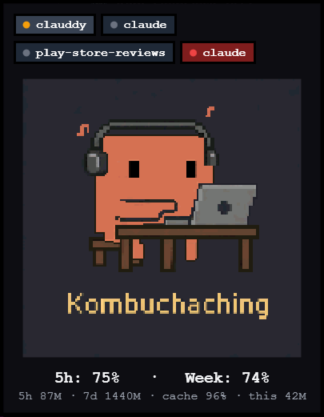
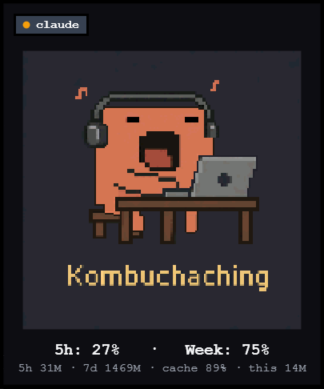
fix: 5h metric tracks bucket resets, not a rolling window
The old rolling-5h sum kept old tokens visible long after Anthropic had
silently reset the bucket — Clauddy showed 75% while /usage was at 27%.

The new logic walks assistant messages chronologically and detects bucket
boundaries: a new bucket starts after a ≥5h gap in activity OR when the
span from the bucket's first message exceeds 5h (matching Anthropic's
"reset at bucket_start + 5h" behavior). If the latest bucket has aged
past now, the metric reads 0 — same as /usage shows post-reset.

Renamed UsageStats.Last5HoursTokens → CurrentBucketTokens (and the cache
field accordingly) since the bucket can span >5h of continuous activity
or be empty when idle past expiry — the field is no longer "the last 5h".

The 7d metric is unchanged (still a rolling sum); we'll only revisit it
if calibration drift becomes a real-world annoyance there too.

76 tests passing (was 73; +3 covering bucket-span reset, no-gap continuous
activity, and post-expiry bucket).

diff --git a/src/Clauddy.Tests/UsageStatsServiceTests.cs b/src/Clauddy.Tests/UsageStatsServiceTests.cs
@@ -30,31 +30,73 @@ public class UsageStatsServiceTests : IDisposable
     {
         var svc = new UsageStatsService(Path.Combine(_dir, "nope"));
         var s = svc.Compute(DateTimeOffset.UtcNow);
-        s.Last5HoursTokens.Should().Be(0);
+        s.CurrentBucketTokens.Should().Be(0);
         s.Last7DaysTokens.Should().Be(0);
-        s.Last5HoursCacheRate.Should().Be(0);
+        s.CurrentBucketCacheRate.Should().Be(0);
     }
 
     [Fact]
-    public void Sums_tokens_inside_5_hour_window()
+    public void Sums_tokens_in_active_bucket()
     {
+        // Two messages 1h apart, both within the past 5h — single active bucket.
         var now = DateTimeOffset.Parse("2026-04-29T12:00:00Z");
         WriteTranscript("a.jsonl",
-            Line("2026-04-29T11:00:00Z", input: 1000, output: 500),     // in 5h
-            Line("2026-04-29T08:00:00Z", input: 100, output: 50));      // outside 5h (4h ago is in, 4h+1m is out — wait 8:00 is 4h before 12:00, in window; let me adjust)
+            Line("2026-04-29T11:00:00Z", input: 1000, output: 500),
+            Line("2026-04-29T10:00:00Z", input: 100, output: 50));
         var s = new UsageStatsService(_dir).Compute(now);
-        s.Last5HoursTokens.Should().Be(1000 + 500 + 100 + 50);  // both within 5h
+        s.CurrentBucketTokens.Should().Be(1650);
     }
 
     [Fact]
-    public void Excludes_tokens_older_than_5_hours()
+    public void Bucket_resets_after_long_idle_gap()
     {
+        // 6h gap between consecutive messages → only the more recent one is in the
+        // current bucket. The older one belonged to a previous (now-expired) bucket.
         var now = DateTimeOffset.Parse("2026-04-29T12:00:00Z");
         WriteTranscript("a.jsonl",
-            Line("2026-04-29T11:00:00Z", input: 1000, output: 500),    // 1h ago — in
-            Line("2026-04-29T06:00:00Z", input: 9999, output: 9999));  // 6h ago — out
+            Line("2026-04-29T11:00:00Z", input: 100, output: 200),     // current bucket
+            Line("2026-04-29T05:00:00Z", input: 9999, output: 9999));  // previous bucket
         var s = new UsageStatsService(_dir).Compute(now);
-        s.Last5HoursTokens.Should().Be(1500);
+        s.CurrentBucketTokens.Should().Be(300);
+    }
+
+    [Fact]
+    public void Bucket_includes_messages_older_than_5h_when_activity_is_continuous()
+    {
+        // No gaps >5h between consecutive messages, total span ≤5h: single bucket.
+        var now = DateTimeOffset.Parse("2026-04-29T12:00:00Z");
+        WriteTranscript("a.jsonl",
+            Line("2026-04-29T07:30:00Z", input: 100, output: 100),  // 4.5h ago → bucket start
+            Line("2026-04-29T09:00:00Z", input: 100, output: 100),  // 3h ago
+            Line("2026-04-29T11:30:00Z", input: 100, output: 100)); // 30m ago
+        var s = new UsageStatsService(_dir).Compute(now);
+        s.CurrentBucketTokens.Should().Be(600);
+    }
+
+    [Fact]
+    public void Bucket_resets_when_continuous_activity_spans_more_than_5h()
+    {
+        // Anthropic resets at bucket_start + 5h regardless of activity. So a continuous
+        // 6h run should produce two buckets — only the later one counts.
+        var now = DateTimeOffset.Parse("2026-04-29T12:00:00Z");
+        WriteTranscript("a.jsonl",
+            Line("2026-04-29T06:00:00Z", input: 100, output: 100),  // bucket A start
+            Line("2026-04-29T08:00:00Z", input: 100, output: 100),  // bucket A
+            Line("2026-04-29T11:30:00Z", input: 200, output: 300)); // span >5h → bucket B start
+        var s = new UsageStatsService(_dir).Compute(now);
+        s.CurrentBucketTokens.Should().Be(500);
+    }
+
+    [Fact]
+    public void Bucket_is_empty_when_now_is_past_bucket_expiry()
+    {
+        // Last message is 6h ago; the bucket that contained it expired at bucket_start+5h.
+        // Anthropic's /usage would show 0% in this state; match it.
+        var now = DateTimeOffset.Parse("2026-04-29T12:00:00Z");
+        WriteTranscript("a.jsonl",
+            Line("2026-04-29T06:00:00Z", input: 9999, output: 9999));
+        var s = new UsageStatsService(_dir).Compute(now);
+        s.CurrentBucketTokens.Should().Be(0);
     }
 
     [Fact]
@@ -69,32 +111,31 @@ public class UsageStatsServiceTests : IDisposable
     }
 
     [Fact]
-    public void Includes_cache_tokens_in_total()
+    public void Includes_cache_tokens_in_bucket_total()
     {
         var now = DateTimeOffset.Parse("2026-04-29T12:00:00Z");
         WriteTranscript("a.jsonl",
             Line("2026-04-29T11:00:00Z", input: 100, output: 200, cacheRead: 5000, cacheCreate: 50));
         var s = new UsageStatsService(_dir).Compute(now);
-        s.Last5HoursTokens.Should().Be(100 + 200 + 5000 + 50);
+        s.CurrentBucketTokens.Should().Be(100 + 200 + 5000 + 50);
     }
 
     [Fact]
-    public void Computes_cache_hit_rate_for_5h_window()
+    public void Computes_cache_hit_rate_for_current_bucket()
     {
         var now = DateTimeOffset.Parse("2026-04-29T12:00:00Z");
-        // input+cache_create+cache_read = total INPUT side; cache_read / that = hit rate
         WriteTranscript("a.jsonl",
             Line("2026-04-29T11:00:00Z", input: 100, output: 999, cacheRead: 800, cacheCreate: 100));
         // input side = 100 + 100 + 800 = 1000 ; hit = 800/1000 = 0.8
         var s = new UsageStatsService(_dir).Compute(now);
-        s.Last5HoursCacheRate.Should().BeApproximately(0.8, 0.001);
+        s.CurrentBucketCacheRate.Should().BeApproximately(0.8, 0.001);
     }
 
     [Fact]
     public void Cache_rate_is_zero_when_no_input()
     {
         var s = new UsageStatsService(_dir).Compute(DateTimeOffset.UtcNow);
-        s.Last5HoursCacheRate.Should().Be(0);
+        s.CurrentBucketCacheRate.Should().Be(0);
     }
 
     [Fact]
@@ -106,7 +147,7 @@ public class UsageStatsServiceTests : IDisposable
         File.WriteAllLines(Path.Combine(p1, "a.jsonl"), new[] { Line("2026-04-29T11:00:00Z", 100, 100) });
         File.WriteAllLines(Path.Combine(p2, "b.jsonl"), new[] { Line("2026-04-29T11:00:00Z", 200, 200) });
         var s = new UsageStatsService(_dir).Compute(now);
-        s.Last5HoursTokens.Should().Be(600);
+        s.CurrentBucketTokens.Should().Be(600);
     }
 
     [Fact]
@@ -117,7 +158,7 @@ public class UsageStatsServiceTests : IDisposable
             """{"type":"user","timestamp":"2026-04-29T11:00:00Z","message":{"role":"user","content":"hi"}}""",
             Line("2026-04-29T11:30:00Z", 100, 200));
         var s = new UsageStatsService(_dir).Compute(now);
-        s.Last5HoursTokens.Should().Be(300);
+        s.CurrentBucketTokens.Should().Be(300);
     }
 
     [Fact]
@@ -130,6 +171,6 @@ public class UsageStatsServiceTests : IDisposable
             "{\"timestamp\":\"bad-date\"}",
             Line("2026-04-29T11:00:00Z", 100, 100));
         var s = new UsageStatsService(_dir).Compute(now);
-        s.Last5HoursTokens.Should().Be(200);
+        s.CurrentBucketTokens.Should().Be(200);
     }
 }

diff --git a/src/Clauddy/Services/UsageStatsService.cs b/src/Clauddy/Services/UsageStatsService.cs
@@ -4,17 +4,24 @@ using System.Text.Json;
 namespace Clauddy.Services;
 
 public record UsageStats(
-    long Last5HoursTokens,
+    long CurrentBucketTokens,
     long Last7DaysTokens,
-    double Last5HoursCacheRate);
+    double CurrentBucketCacheRate);
 
 /// <summary>
 /// Computes /usage-style metrics by walking all *.jsonl transcripts under a root.
 /// Pure side-effect-free read of the local filesystem; safe to call on a timer.
+///
+/// The 5-hour metric is a "session bucket" not a rolling window: a bucket starts
+/// after a ≥5h gap in activity (or after the previous bucket has spanned 5h of
+/// continuous activity), and expires 5h after its start. This matches Anthropic's
+/// /usage reset semantics far better than a strict last-5h sum, which kept old
+/// tokens visible long after Anthropic had silently reset them.
 /// </summary>
 public class UsageStatsService
 {
     private readonly string _root;
+    private static readonly TimeSpan BucketLength = TimeSpan.FromHours(5);
 
     public UsageStatsService(string transcriptsRoot) => _root = transcriptsRoot;
 
@@ -26,10 +33,9 @@ public class UsageStatsService
     {
         if (!Directory.Exists(_root)) return new UsageStats(0, 0, 0);
 
-        long input5h = 0, output5h = 0, cacheRead5h = 0, cacheCreate5h = 0;
         long total7d = 0;
-        var fiveHoursAgo = now - TimeSpan.FromHours(5);
         var sevenDaysAgo = now - TimeSpan.FromDays(7);
+        var msgs = new List<UsageRow>();
 
         foreach (var file in Directory.EnumerateFiles(_root, "*.jsonl", SearchOption.AllDirectories))
         {
@@ -43,18 +49,60 @@ public class UsageStatsService
                 if (!TryParseAssistantUsage(line, out var ts, out var i, out var o, out var cr, out var cc)) continue;
 
                 if (ts >= sevenDaysAgo) total7d += i + o + cr + cc;
-                if (ts >= fiveHoursAgo)
-                {
-                    input5h += i; output5h += o; cacheRead5h += cr; cacheCreate5h += cc;
-                }
+                msgs.Add(new UsageRow(ts, i, o, cr, cc));
             }
         }
 
-        long inputSide = input5h + cacheRead5h + cacheCreate5h;
-        double cacheRate = inputSide == 0 ? 0 : (double)cacheRead5h / inputSide;
-        long total5h = inputSide + output5h;
-        return new UsageStats(total5h, total7d, cacheRate);
+        var bucket = CurrentBucket(msgs, now);
+        long inputSide = bucket.Input + bucket.CacheRead + bucket.CacheCreate;
+        double cacheRate = inputSide == 0 ? 0 : (double)bucket.CacheRead / inputSide;
+        long bucketTotal = inputSide + bucket.Output;
+        return new UsageStats(bucketTotal, total7d, cacheRate);
     }
+
+    /// <summary>
+    /// Sums tokens for the currently-active 5-hour bucket. A new bucket starts whenever
+    /// either condition is met: (a) a ≥5h gap between consecutive messages, or (b) the
+    /// span from the bucket's first message exceeds 5h. After identifying the latest
+    /// bucket, an empty result is returned if "now" is past that bucket's expiry —
+    /// matches Anthropic's behavior of fresh-bucket display once the window has elapsed.
+    /// </summary>
+    internal static (long Input, long Output, long CacheRead, long CacheCreate) CurrentBucket(
+        List<UsageRow> messages, DateTimeOffset now)
+    {
+        if (messages.Count == 0) return (0, 0, 0, 0);
+
+        // Sort ascending so we can walk forward and detect bucket boundaries.
+        messages.Sort((a, b) => a.Ts.CompareTo(b.Ts));
+
+        int bucketStartIdx = 0;
+        var bucketStartTs = messages[0].Ts;
+        for (int k = 1; k < messages.Count; k++)
+        {
+            var gap = messages[k].Ts - messages[k - 1].Ts;
+            var spanFromStart = messages[k].Ts - bucketStartTs;
+            if (gap > BucketLength || spanFromStart > BucketLength)
+            {
+                bucketStartIdx = k;
+                bucketStartTs = messages[k].Ts;
+            }
+        }
+
+        // Bucket has expired (Anthropic resets exactly bucket_start + 5h).
+        if (now - bucketStartTs > BucketLength) return (0, 0, 0, 0);
+
+        long input = 0, output = 0, cacheRead = 0, cacheCreate = 0;
+        for (int k = bucketStartIdx; k < messages.Count; k++)
+        {
+            input += messages[k].Input;
+            output += messages[k].Output;
+            cacheRead += messages[k].CacheRead;
+            cacheCreate += messages[k].CacheCreate;
+        }
+        return (input, output, cacheRead, cacheCreate);
+    }
+
+    internal record UsageRow(DateTimeOffset Ts, long Input, long Output, long CacheRead, long CacheCreate);
 
     private static IEnumerable<string> EnumerateLines(string path)
     {

diff --git a/src/Clauddy/ViewModels/MainViewModel.cs b/src/Clauddy/ViewModels/MainViewModel.cs
@@ -101,8 +101,8 @@ public class MainViewModel : INotifyPropertyChanged
     public void UpdateUsage(UsageStats stats, long quota5h, long quota7d)
     {
         Window5hDisplay = quota5h > 0
-            ? $"5h: {(double)stats.Last5HoursTokens / quota5h:P0}"
-            : $"5h: {FormatTokens(stats.Last5HoursTokens)}";
+            ? $"5h: {(double)stats.CurrentBucketTokens / quota5h:P0}"
+            : $"5h: {FormatTokens(stats.CurrentBucketTokens)}";
         Window7dDisplay = quota7d > 0
             ? $"Week: {(double)stats.Last7DaysTokens / quota7d:P0}"
             : $"Week: {FormatTokens(stats.Last7DaysTokens)}";
@@ -110,10 +110,10 @@ public class MainViewModel : INotifyPropertyChanged
         // When calibrated, primary line shows %; raw counts demote to a subtitle.
         // When uncalibrated, primary already shows raw counts so the subtitle stays empty.
         _rawSubtitle = (quota5h > 0 || quota7d > 0)
-            ? $"5h {FormatTokens(stats.Last5HoursTokens)} · 7d {FormatTokens(stats.Last7DaysTokens)}"
+            ? $"5h {FormatTokens(stats.CurrentBucketTokens)} · 7d {FormatTokens(stats.Last7DaysTokens)}"
             : "";
 
-        AggregateCacheRate = stats.Last5HoursCacheRate;
+        AggregateCacheRate = stats.CurrentBucketCacheRate;
         OnChanged(nameof(SubtitleDisplay));
     }
 

diff --git a/src/Clauddy/Views/CalibrateDialog.xaml.cs b/src/Clauddy/Views/CalibrateDialog.xaml.cs
@@ -22,18 +22,18 @@ public partial class CalibrateDialog : System.Windows.Window
         // Pre-fill with what Clauddy currently displays so users can compare against
         // /usage and tweak only the numbers that drift.
         if (currentQuota5h > 0)
-            Pct5h.Text = Math.Round((double)snapshot.Last5HoursTokens / currentQuota5h * 100).ToString();
+            Pct5h.Text = Math.Round((double)snapshot.CurrentBucketTokens / currentQuota5h * 100).ToString();
         if (currentQuota7d > 0)
             Pct7d.Text = Math.Round((double)snapshot.Last7DaysTokens / currentQuota7d * 100).ToString();
 
         CurrentSnapshot.Text =
-            $"Snapshot: 5h = {MainViewModel.FormatTokens(snapshot.Last5HoursTokens)} tokens, " +
+            $"Snapshot: 5h = {MainViewModel.FormatTokens(snapshot.CurrentBucketTokens)} tokens, " +
             $"7d = {MainViewModel.FormatTokens(snapshot.Last7DaysTokens)} tokens.";
     }
 
     private void SaveBtn_Click(object sender, System.Windows.RoutedEventArgs e)
     {
-        Quota5hTokens = BackSolve(Pct5h.Text, _snapshot.Last5HoursTokens);
+        Quota5hTokens = BackSolve(Pct5h.Text, _snapshot.CurrentBucketTokens);
         Quota7dTokens = BackSolve(Pct7d.Text, _snapshot.Last7DaysTokens);
         DialogResult = true; Close();
     }
